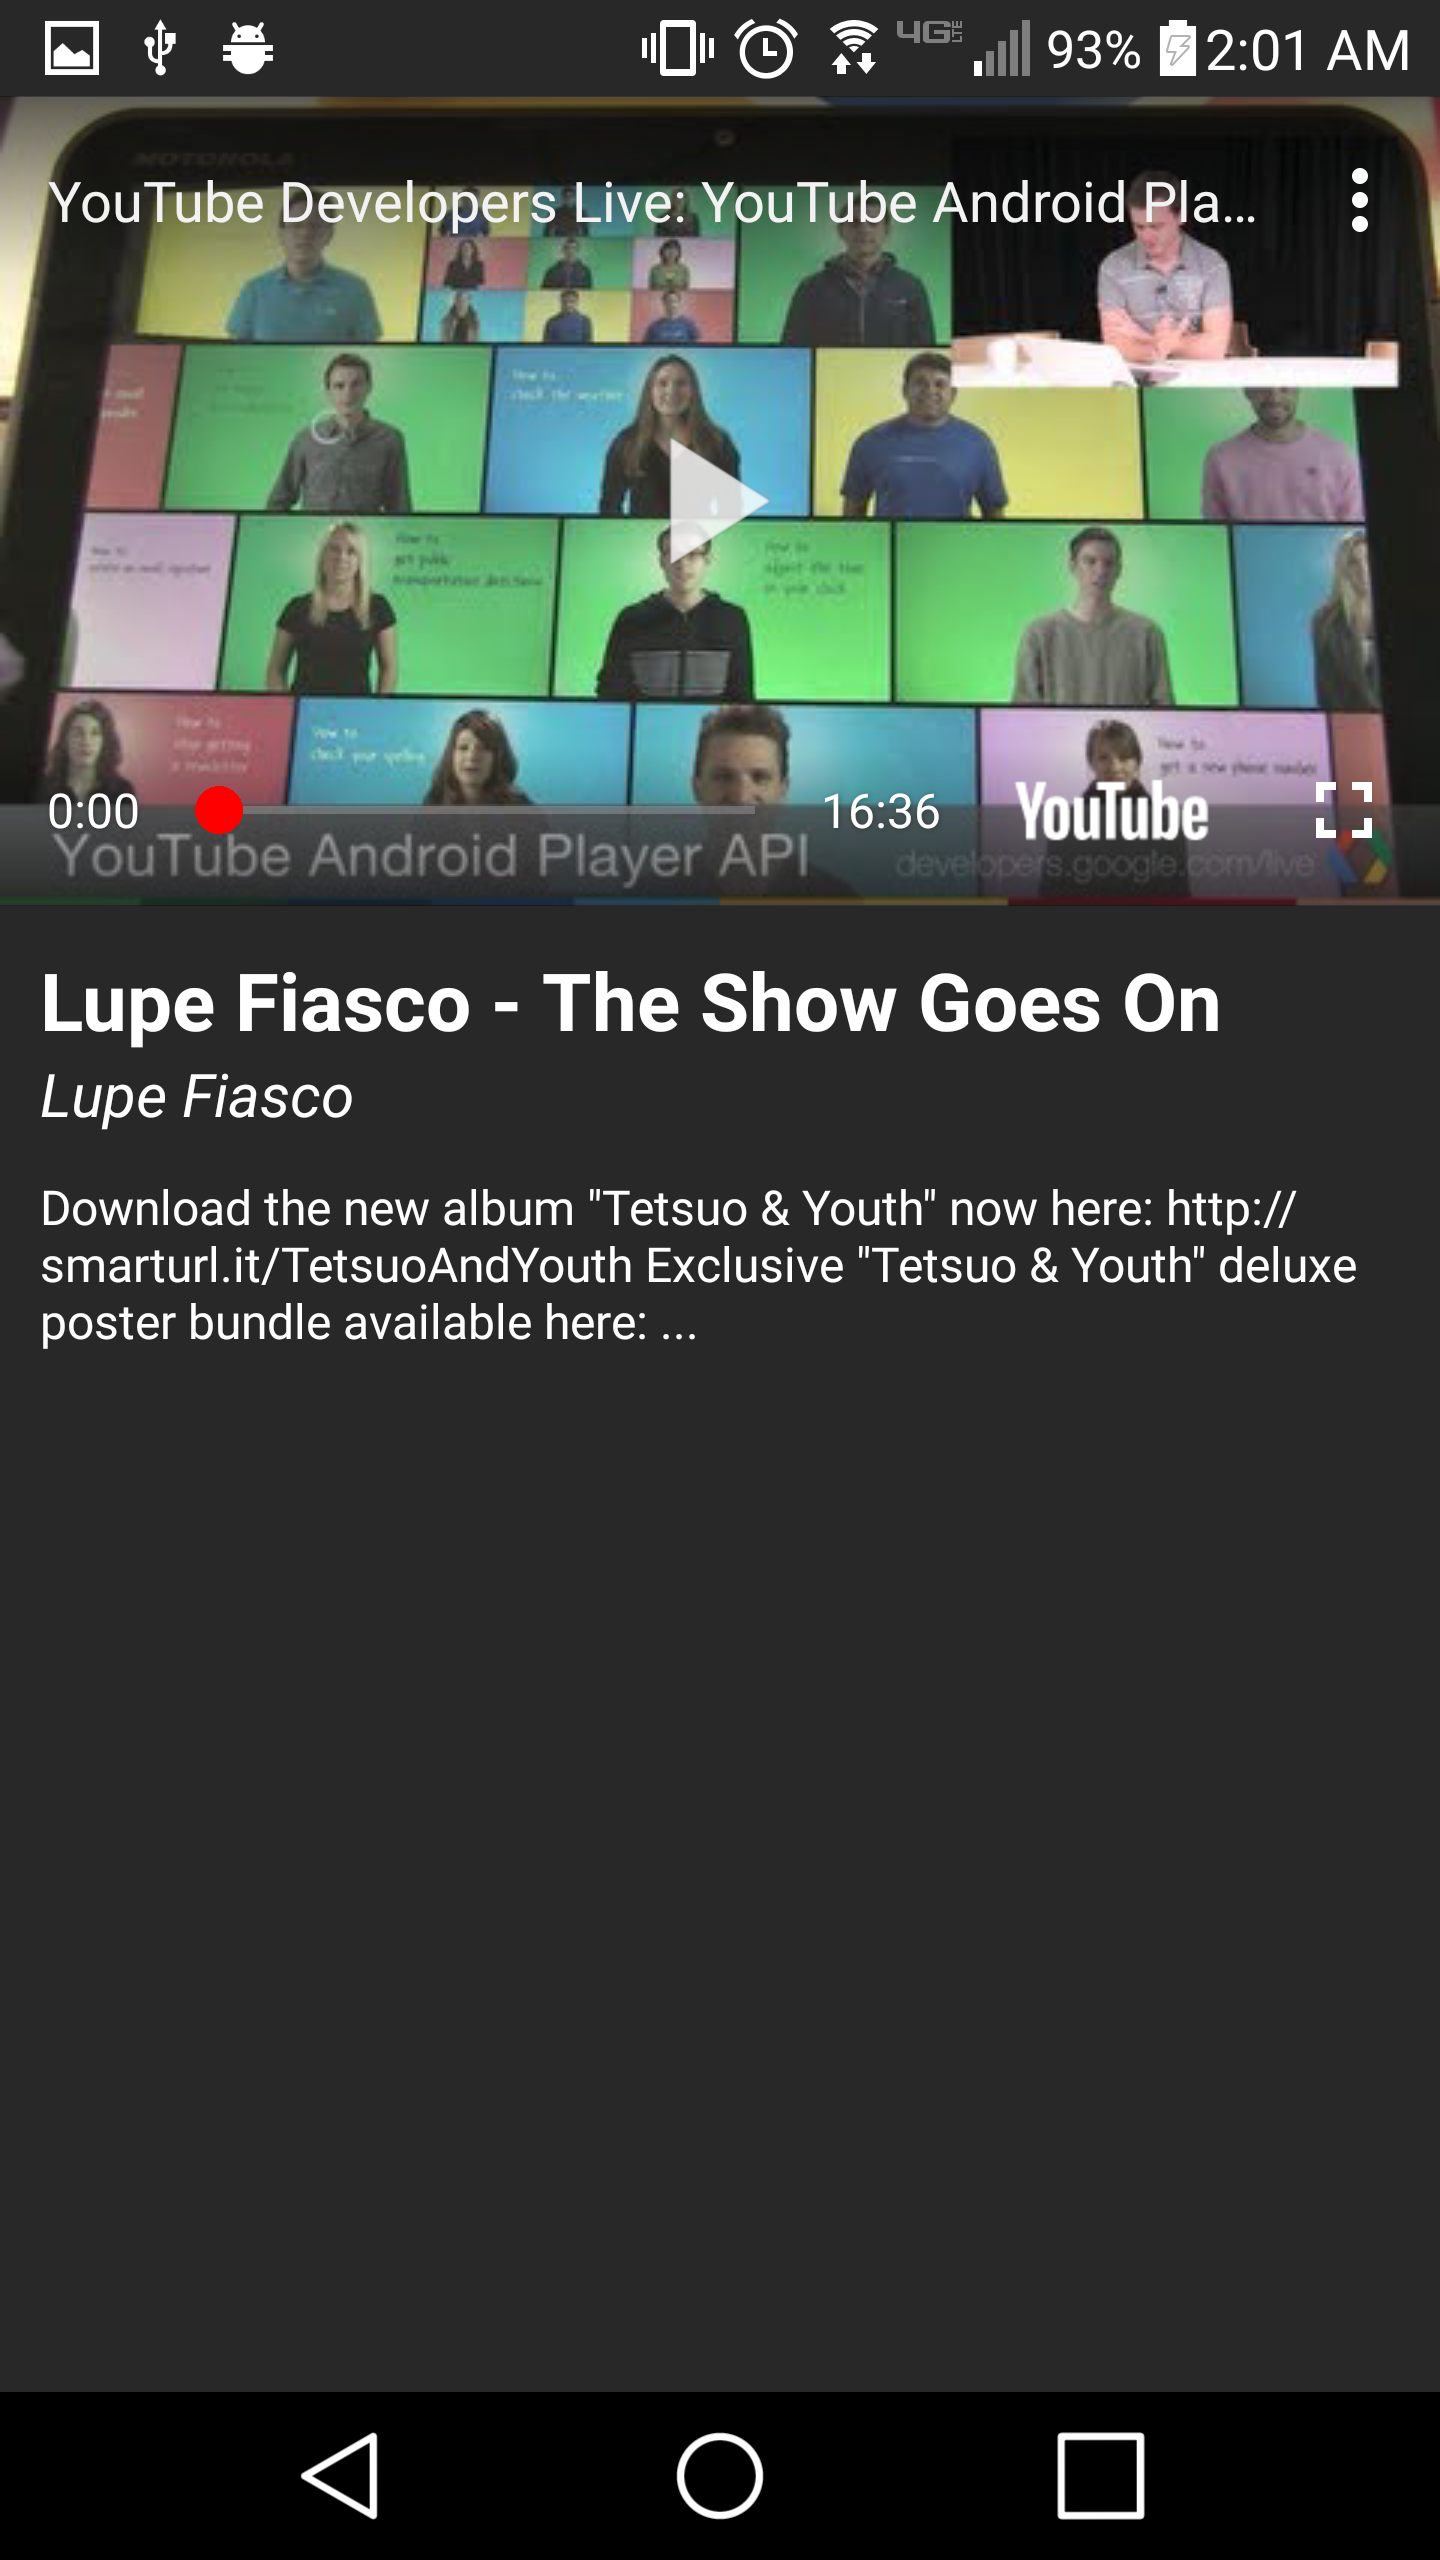
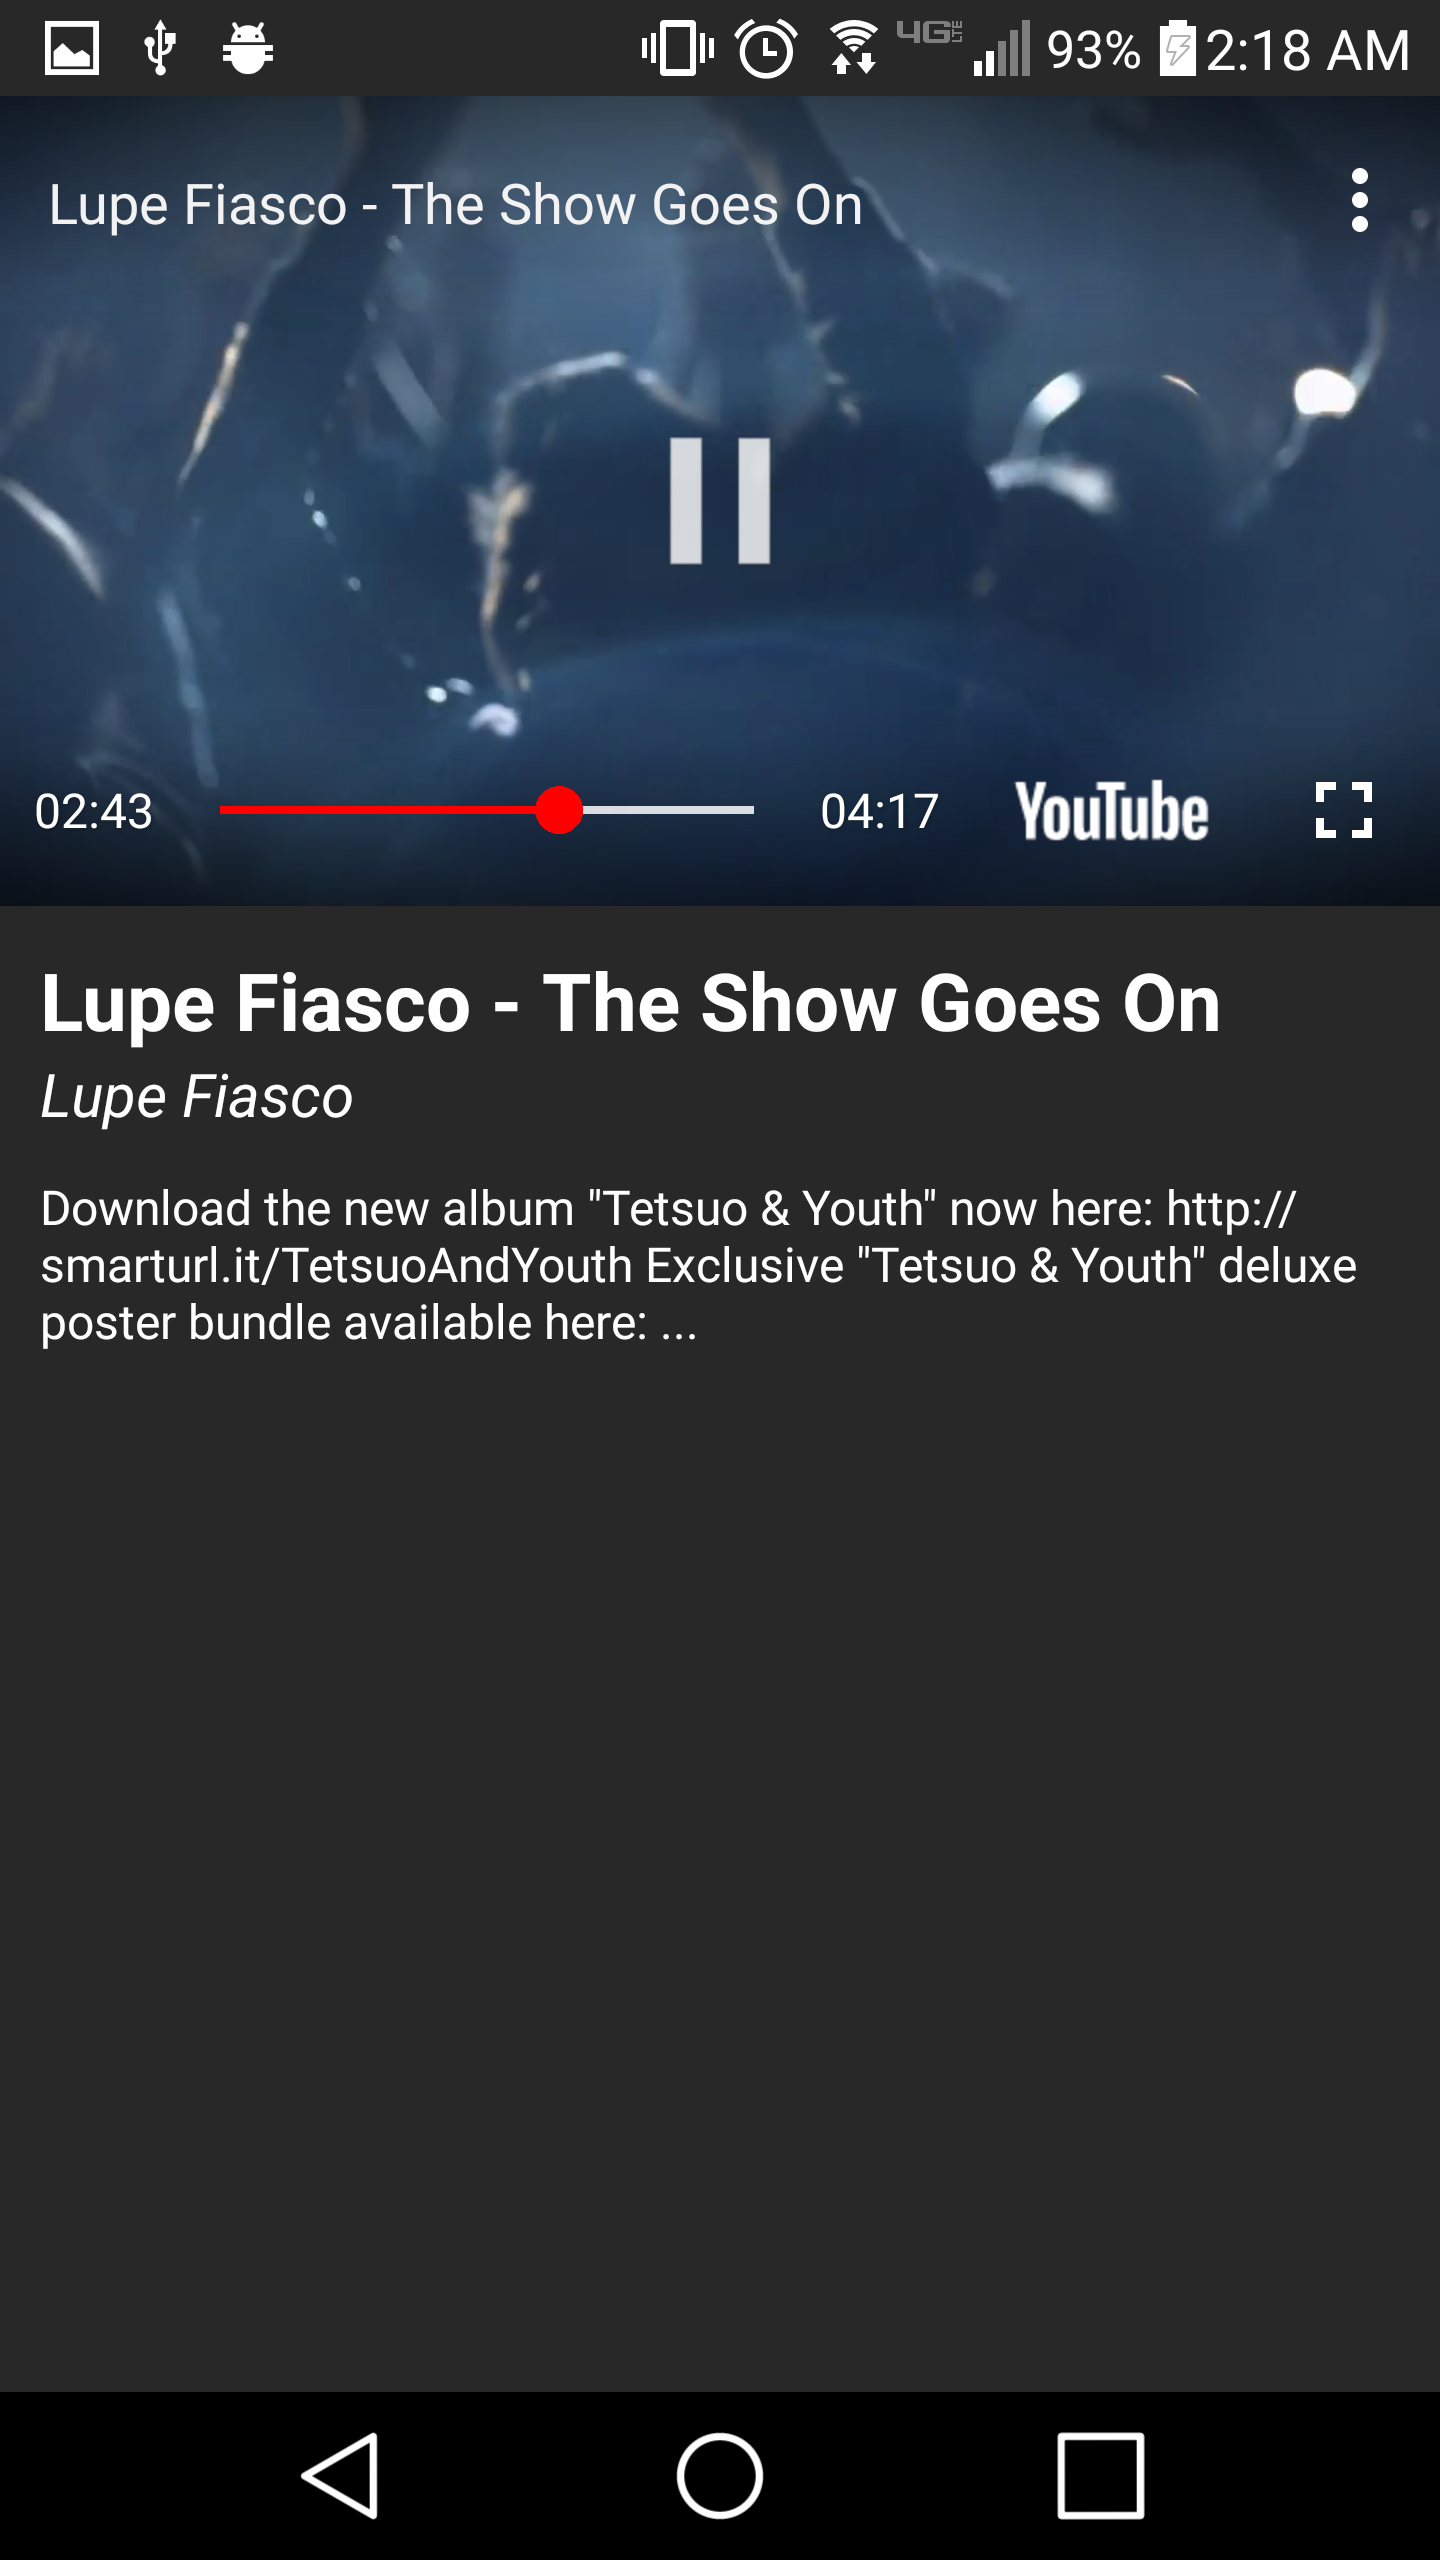
Fix video playback bug and change screenshot

diff --git a/app/src/main/java/com/sohit/musicmash/YouTubePlayVideo.java b/app/src/main/java/com/sohit/musicmash/YouTubePlayVideo.java
@@ -18,7 +18,6 @@ public class YouTubePlayVideo extends YouTubeBaseActivity
     private YouTubePlayerView youTubeView;
 
     private CustomItem videoInfo = null;
-    private String video_id = "fhWaJi1Hsfo";
 
     private MyPlayerStateChangeListener playerStateChangeListener;
     private MyPlaybackEventListener playbackEventListener;
@@ -59,7 +58,7 @@ public class YouTubePlayVideo extends YouTubeBaseActivity
         player.setPlaybackEventListener(playbackEventListener);
 
         if (!wasRestored) {
-            player.cueVideo(video_id);
+            player.cueVideo(videoInfo.getVideoId());
         }
     }
 
